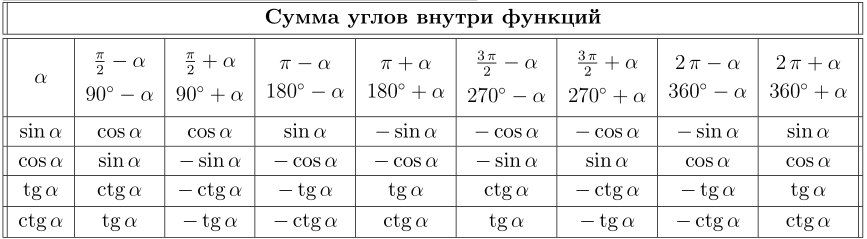
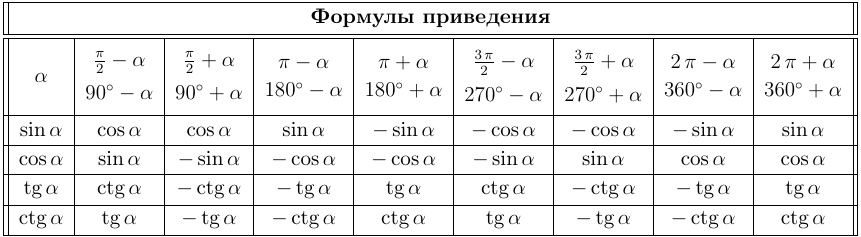
fix name

diff --git a/formulas.tex b/formulas.tex
@@ -941,7 +941,7 @@ TODO нарисовать здесь тригонометрическую окр
 
 \begin{tabu}[t]{||c|c|c|c|c|c|c|c|c||}
 	\hline
-		\multicolumn{9}{||c||}{\textbf{Сумма углов внутри функций}} \\
+		\multicolumn{9}{||c||}{\textbf{Формулы приведения}} \\
 	\hline
 	\hline
 		$ \alpha $ &

diff --git a/README.md b/README.md
@@ -38,7 +38,7 @@
 * Сумма функций в произведение
 * Произведение функций в сумму
 * Понижение степени и половинный угол
-* Таблица `sin(pi/2 + x) = cos(x)`, `tg(3*pi/2-x)=ctg(x)` итд.
+* Формулы приведения
 * Тригонометрические равенства
 * Обратные тригонометрические функции
 * Таблица значений тригонометрии для стандартных углов
